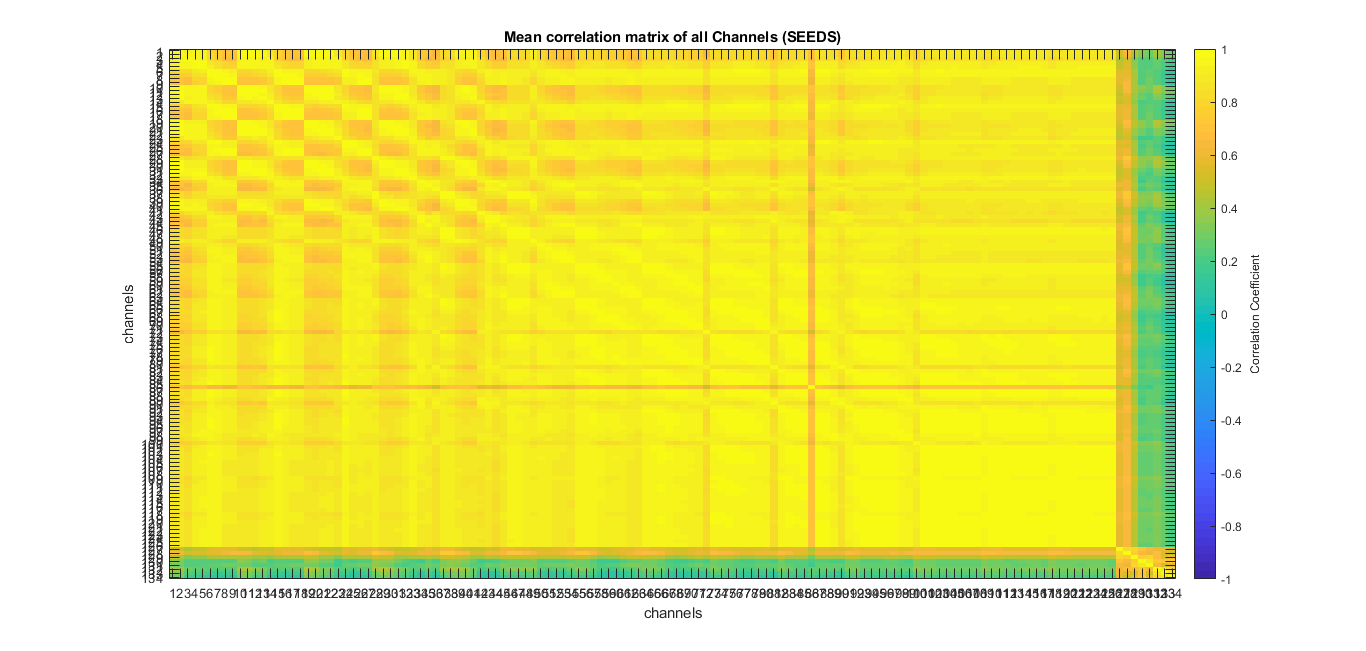
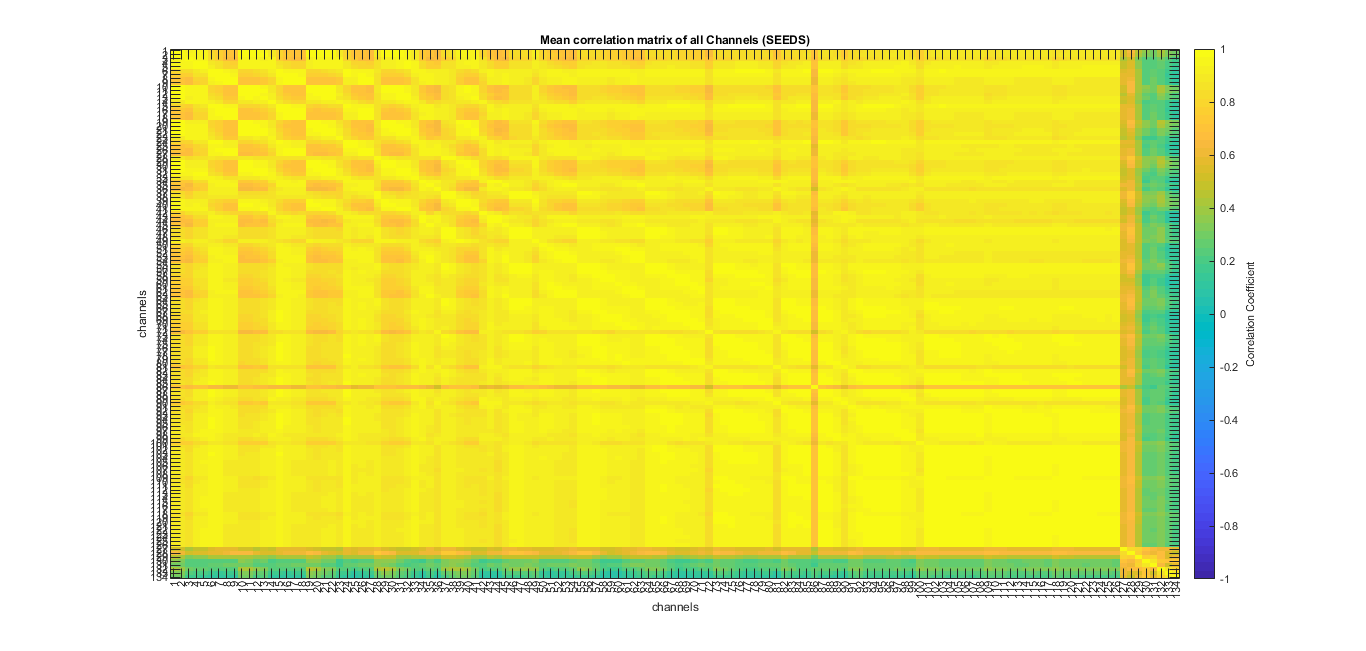
rotated x axis by 90 degrees

Changed region(s): [[0.0922, 0.0307, 0.9224, 0.9524]]

diff --git a/SEEDS/channelCorrelationFunc.m b/SEEDS/channelCorrelationFunc.m
@@ -24,15 +24,17 @@ end
 meancorrmat = mean(corr_mat,3); %mean of corr coeffs for all channels across features measured (size = #channels x #channels x 1)
 imagesc(meancorrmat) %visual of mean correlation matrix
 title('Mean correlation matrix of all Channels (SEEDS)');
-xlabel('channels');
-ylabel('channels');
 c = colorbar;
 caxis([-1 1]); %limits for colorbar
 c.Label.String = 'Correlation Coefficient';
-xticks(1:length(includedchannels));
-xticklabels(includedchannels);% Label x axis
-yticks(1:length(includedchannels));
-yticklabels(includedchannels);% Label y axis
+xlabel('channels');
+xticks(1:length(includedchannels)); %number of ticks
+xticklabels(includedchannels);% Label of each tick - don't know if this makes a real difference or not
+yticks(1:length(includedchannels)); 
+yticklabels(includedchannels);
+ylabel('channels');
+xtickangle(90); %rotate x ticks 90 degrees to make them legible
+set(gca,'FontSize', 8) %decrease font size to make the resultant figure more legible
 end
 
 
